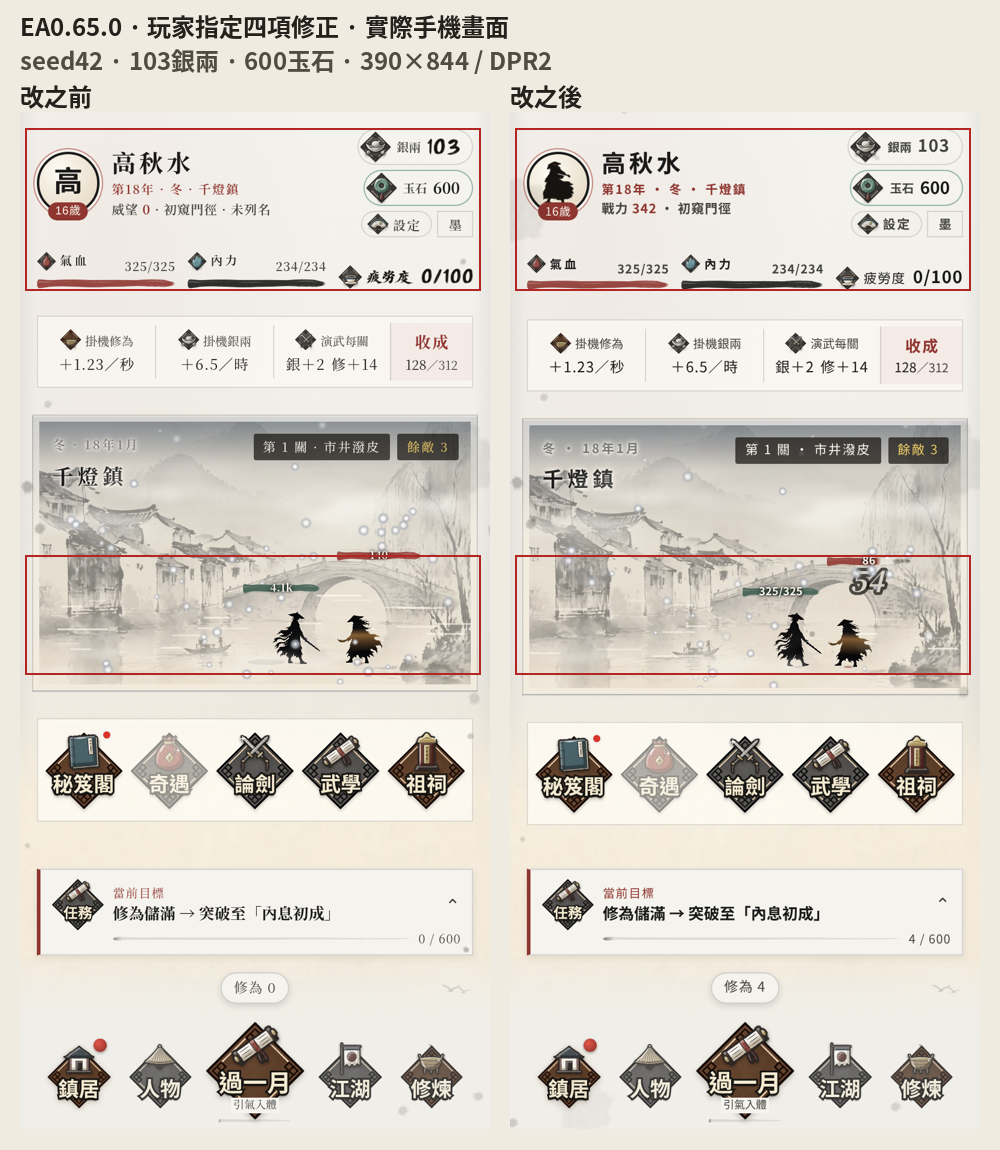
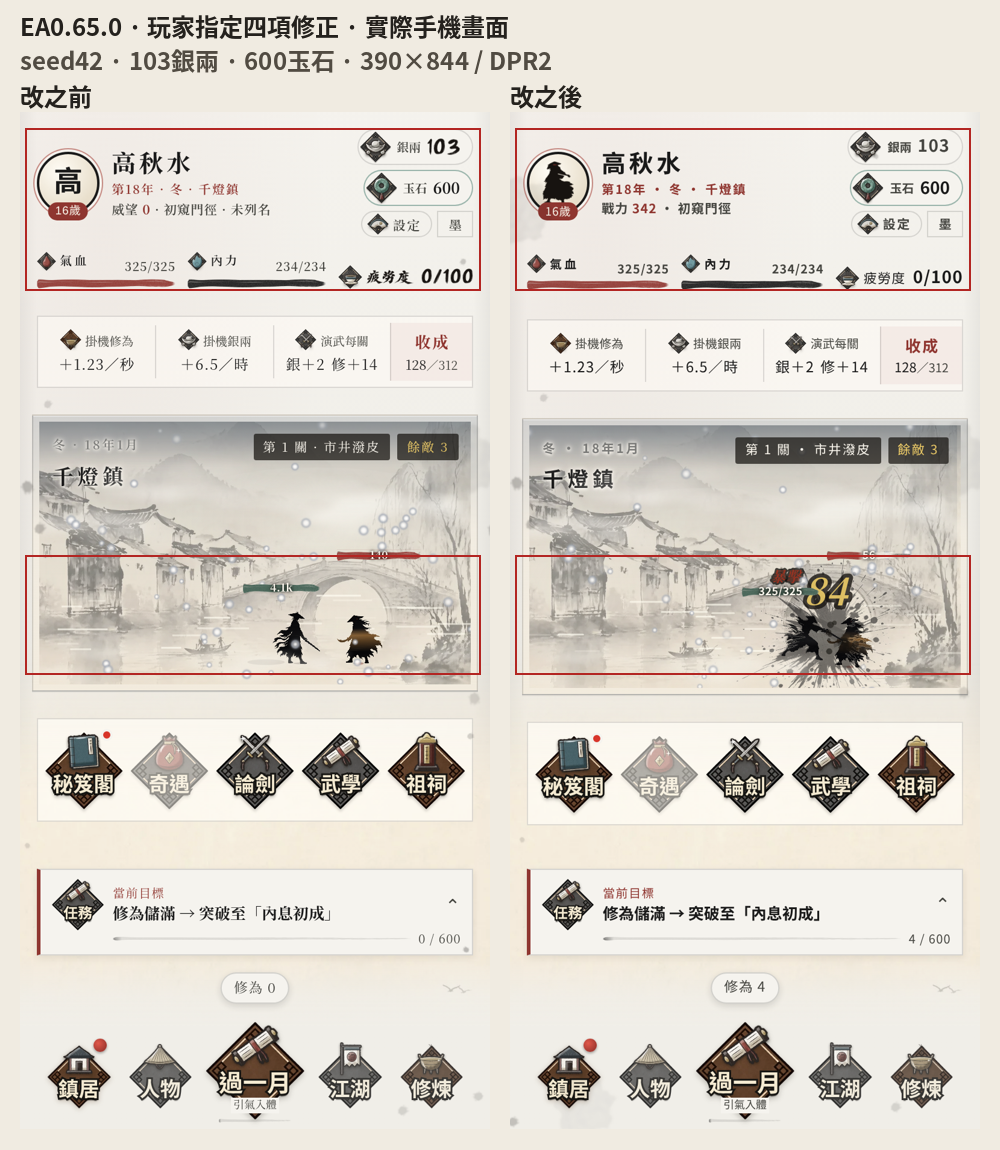
fix: 各分頁介面統一字體並補發布驗收
Story: redesign-scope 第22項。574項測試、build、內容檢查及9項瀏覽器驗證通過。

Changed region(s): [[0.527, 0.4261, 0.961, 0.6087]]

diff --git a/src/styles.css b/src/styles.css
@@ -10721,3 +10721,5 @@ html[data-ink-motion='reduce'] .ink-nav-center--badge:active:not(:disabled) { tr
 .scroll-shell--play { --font-body: var(--game-ui-font); --font-title: var(--game-ui-font); --font-display: var(--game-ui-font); }
 .scroll-shell--play .ink-hud span, .scroll-shell--play .ink-hud b,
 .scroll-shell--play .ink-nav-center-tier, .scroll-shell--play .ink-nav-center-xp { font-family: var(--game-ui-font); }
+/* 舊分頁曾各自指定楷體／等寬字；所有介面文字統一同一個字體 token。 */
+.scroll-shell--play * { font-family: var(--game-ui-font) !important; }

diff --git a/scripts/qa/packageRelease65.py b/scripts/qa/packageRelease65.py
@@ -1,0 +1,22 @@
+"""EA0.65實際介面對照及對打氣血GIF。"""
+from pathlib import Path
+from PIL import Image, ImageDraw, ImageFont
+root = Path(__file__).resolve().parents[2]
+out = root / 'production/qa/evidence/redesign/release-ea065'
+ft = ImageFont.truetype('/usr/share/fonts/opentype/noto/NotoSansCJK-Bold.ttc', 24)
+board = Image.new('RGB', (1000, 1150), '#f0ebe1')
+d = ImageDraw.Draw(board)
+d.text((20, 8), 'EA0.65.0 · 玩家指定四項修正 · 實際手機畫面', font=ft, fill='#24211d')
+d.text((20, 42), 'seed42 · 103銀兩 · 600玉石 · 390×844 / DPR2', font=ft, fill='#514b42')
+for i, (file, title) in enumerate([
+    (root / 'production/qa/evidence/redesign/month-badge/after-390.png', '改之前'),
+    (out / 'home-390.png', '改之後'),
+]):
+    x = 20 + 490*i
+    board.paste(Image.open(file).convert('RGB').resize((470, 1017)), (x, 112))
+    d.text((x, 78), title, font=ft, fill='#24211d')
+    for y1, y2 in [(28, 296), (736, 934)]:
+        d.rectangle((x+5, 112+int(y1*1017/1688), x+460, 112+int(y2*1017/1688)), outline='#b32623', width=2)
+board.save(out / 'comparison.png')
+frames = [Image.open(p).convert('RGB').resize((390, 844)) for p in sorted((out / 'frames').glob('spar-*.png'))]
+frames[0].save(out / 'spar-health.gif', save_all=True, append_images=frames[1:], duration=250, loop=0)

diff --git a/production/qa/evidence/redesign/release-ea065/README.md b/production/qa/evidence/redesign/release-ea065/README.md
@@ -1,0 +1,14 @@
+# EA0.65.0 發布驗收
+
+玩家已確認上線，另授權真氣血／難度、人物圖示、統一字體、戰力與人物排名四項改動。
+
+seed42、完成新手、103銀兩、600免費玉石，390×844、DPR2；320／420同情境。掛機及對打照常運行，後續截圖數字會更新。
+
+- `comparison.png`：實際改前／改後紅框對照。
+- `home-*`：三個手機尺寸；`person-390.png`及`combat-390.png`：人物排名、綜合戰力及數值拆解。
+- `spar-health.gif`：實際對打，同步角色及演武氣血。
+- `validation.json`：9項通過，無頁面錯誤或失敗請求；檢查手機溢出、圖像人物入口、字體、真氣血與上限、主頁戰力及人物排名／詳細頁。
+
+574項Vitest、build、audit:narrate通過；實體手機未驗證。演武敗退最低保留1點，1.6秒休整完成後退關回滿，不會因掛機死亡。戰力權重／階級與敵人成長放測試參數，存檔格式不變。
+
+重跑：Vite5175後 `node scripts/qa/captureRelease65.mjs`、`python scripts/qa/packageRelease65.py`。對照字體NotoSansCJK，環境未有文泉驛。
